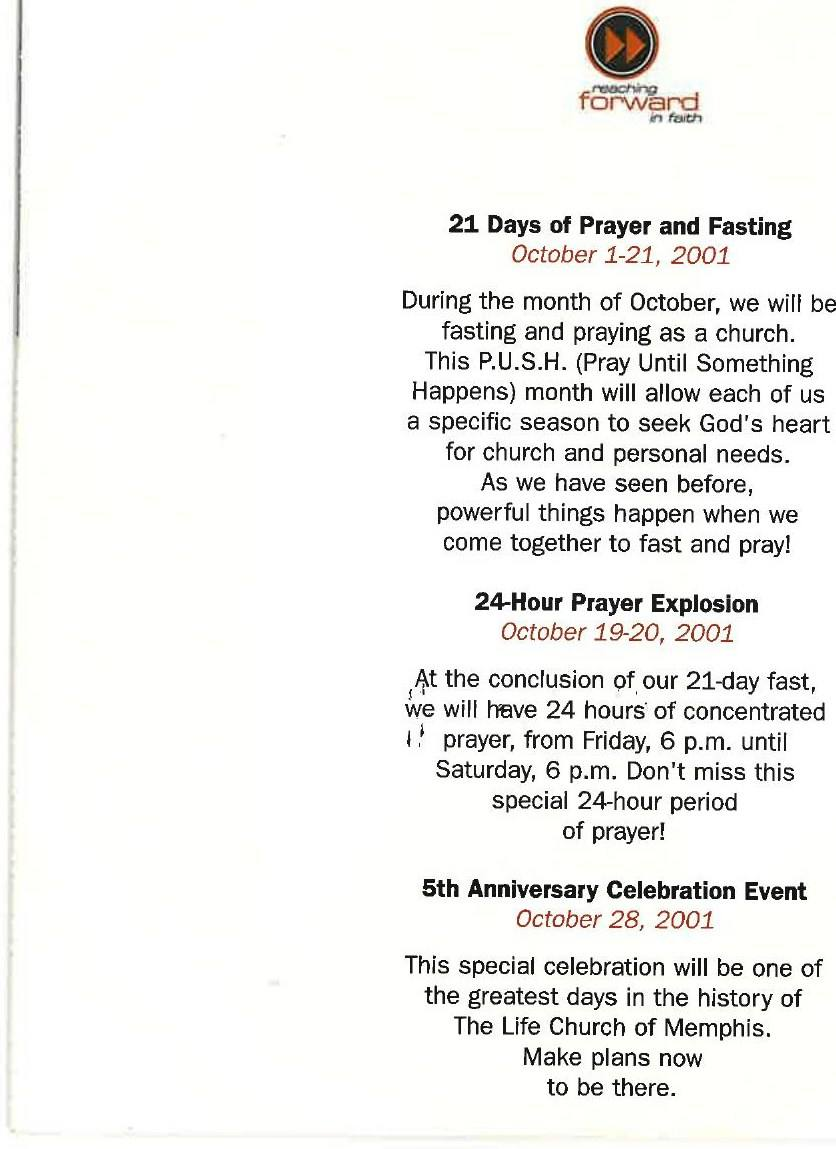
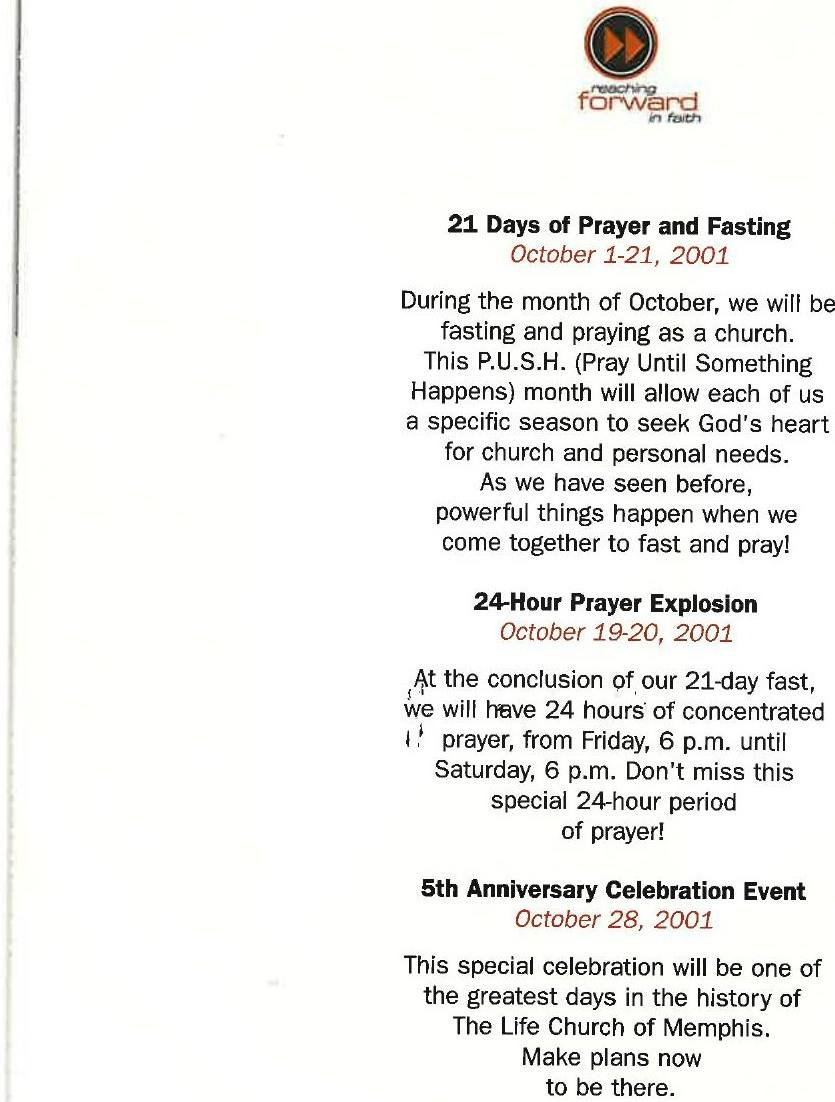
Contained pieces get a ground; the title stops reserving height
Two bugs Daniel caught in the same screenshot.

The slides cross-fade by stacking — each arrives over the last and stays
— which only works while every slide covers the frame. A contained image
does not, so the print pieces were letting the slide underneath show
straight through, and the two read as one double exposure. They carry the
cream ground themselves now.

And the title reserved three lines' worth whatever it held. That kept the
paragraph starting at the same place, but a one-line title had to carry
the slack: under it first, which read as a hole, and above it after, which
read no better. Natural height it is. A short title now hands its room to
the paragraph — the window goes from 234px to 491px on a one-line card —
and the paragraphs overflowing drop from 20 of 40 to 18.

Print pieces are also trimmed of their page white now whatever they
arrive as. The trim only ever ran on the PDFs, so the pieces re-exported
as JPGs kept their margin, and that white against the card's cream is
what actually looked wrong — not the cream.

diff --git a/css/style.css b/css/style.css
@@ -572,9 +572,18 @@ html, body {
 /* A printed piece is a document, not a photograph: cropping a mailer to
    fill the frame throws away the half that carries the words. Anything
    built from a scan is named "-whole" and is shown entire, on the card's
-   own ground, the same way a clip is. */
+   own ground, the same way a clip is.
+
+   It MUST carry that ground itself. The slides cross-fade by stacking —
+   each one arrives over the last and stays — which only works while every
+   slide covers the frame. A contained image does not, so without a
+   background of its own the slide underneath shows straight through it
+   and the two read as one double-exposed mess. */
 .exp__photo img[src*="-whole"],
-.exp__cell  img[src*="-whole"] { object-fit: contain; }
+.exp__cell  img[src*="-whole"] {
+  object-fit: contain;
+  background: var(--cream);
+}
 
 /* the focus tool's selection. dev only — .capture never shows it, so it
    can never land in a rendered frame. */
@@ -668,28 +677,18 @@ body.capture .exp__cell[data-sel] { outline: none; }
 
 /* All caps. The brief said "capitalize the headers", which was ambiguous
    until you notice the titles were already Title Case — so it could only
-   have meant this. Read back to the client and confirmed. Caps set solid at
-   46px run long, so the tracking comes back a touch and the leading
-   tightens — uppercase has no descenders to separate the lines.
+   have meant this. Read back to the client and confirmed. Caps set solid
+   at 46px run long, so the tracking comes back a touch and the leading
+   tightens: uppercase has no descenders to separate the lines.
 
-   One size for every title — there is no per-card fitting anywhere, and
-   there should not be. What DID vary was the block's height: a one-line
-   title and a three-line one pushed the paragraph to different places,
-   a 98px swing across the 42. So the block always reserves three lines
-   and the paragraph starts at the same height on every card. Titles run
-   1, 2 or 3 lines and none reaches 4; if a future one does, this is the
-   number to raise. */
-/* The block always reserves three lines so the paragraph starts at the
-   same height on every card. The title sits at the BOTTOM of it, not the
-   top: a one-line title then leaves its slack ABOVE, against the pill,
-   where it reads as air — left below, it read as a hole between the
-   title and the paragraph it belongs to. */
+   No reserved height. Holding three lines' worth kept the paragraph
+   starting at the same place on every card, but a one-line title then
+   carried the slack — under it first, which read as a hole, and above it
+   afterwards, which read no better. Natural height it is: the title sits
+   against the pill above and the paragraph below, and a short one simply
+   hands its room to the paragraph, which needs it. */
 .exp__title {
   width: 100%;
-  min-height: calc(3 * 1.06em);
-  display: flex;
-  flex-direction: column;
-  justify-content: flex-end;
   font-family: var(--serif);
   font-weight: 800;
   font-size: 46px;

diff --git a/index.html b/index.html
@@ -4,7 +4,7 @@
 <meta charset="utf-8">
 <meta name="viewport" content="width=device-width, initial-scale=1">
 <title>The Life Church — 30th Anniversary Timeline</title>
-<link rel="stylesheet" href="css/style.css?v=81">
+<link rel="stylesheet" href="css/style.css?v=82">
 </head>
 <body>
 
@@ -131,12 +131,12 @@
     <span class="hud__focus" id="hud-focus"></span>
   </div>
 
-<script src="js/anim.js?v=81"></script>
-<script src="js/logo.js?v=81"></script>
-<script src="js/timeline.js?v=81"></script>
-<script src="js/ticker.js?v=81"></script>
-<script src="js/notes.js?v=81"></script>
-<script src="js/outro.js?v=81"></script>
-<script src="js/main.js?v=81"></script>
+<script src="js/anim.js?v=82"></script>
+<script src="js/logo.js?v=82"></script>
+<script src="js/timeline.js?v=82"></script>
+<script src="js/ticker.js?v=82"></script>
+<script src="js/notes.js?v=82"></script>
+<script src="js/outro.js?v=82"></script>
+<script src="js/main.js?v=82"></script>
 </body>
 </html>

diff --git a/tools/build-photos-8sept.py b/tools/build-photos-8sept.py
@@ -163,6 +163,38 @@ PLAN = {
 
 DARK, UNIFORM, CEILING, MAX_ASPECT = 30, 5.0, 60, 2.0
 
+# a scanned page's white, and how much ink a line needs to be content
+PAGE_PAD, INK_FRAC = 6, 0.012
+
+
+def trim_page(im):
+    """Cut the scanner's white margin off a printed piece.
+
+    The same bounding box the PDFs went through, applied here too: the
+    pieces that arrive already exported as JPGs never saw it, and their
+    page white sitting against the card's cream is what reads as wrong.
+    White is measured from the sheet's own corners, because a scan's
+    white is never 255 and drifts with the lamp."""
+    a = np.asarray(im.convert("L"), dtype=np.float32)
+    h, w = a.shape
+    k = max(8, min(h, w) // 40)
+    corners = np.concatenate([a[:k, :k].ravel(), a[:k, -k:].ravel(),
+                              a[-k:, :k].ravel(), a[-k:, -k:].ravel()])
+    white = np.percentile(corners, 60)
+    if white < 200:                      # not a white page at all
+        return im
+    ink = a < white - 18
+    rows, cols = ink.mean(axis=1) > INK_FRAC, ink.mean(axis=0) > INK_FRAC
+    if not rows.any() or not cols.any():
+        return im
+    y0, y1 = np.where(rows)[0][[0, -1]]
+    x0, x1 = np.where(cols)[0][[0, -1]]
+    box = (max(0, x0 - PAGE_PAD), max(0, y0 - PAGE_PAD),
+           min(w, x1 + 1 + PAGE_PAD), min(h, y1 + 1 + PAGE_PAD))
+    if (box[2]-box[0]) < 80 or (box[3]-box[1]) < 80:
+        return im
+    return im.crop(box)
+
 
 def loose(n):
     """macOS writes U+202F before the "PM" in a screenshot's name and shows
@@ -259,7 +291,8 @@ def main():
                 n = slug(ref)
                 i = 2
                 while n in names.values(): n = slug(ref)[:-4] + "-%d.jpg" % i; i += 1
-                im = strip_letterbox(decode(p))
+                im = decode(p)
+                im = trim_page(im) if is_print(ref) else strip_letterbox(im)
                 if max(im.size) > LONG_EDGE: im.thumbnail((LONG_EDGE, LONG_EDGE), Image.LANCZOS)
                 im.save(os.path.join(OUT, n), "JPEG", quality=QUALITY,
                         optimize=True, progressive=True)
